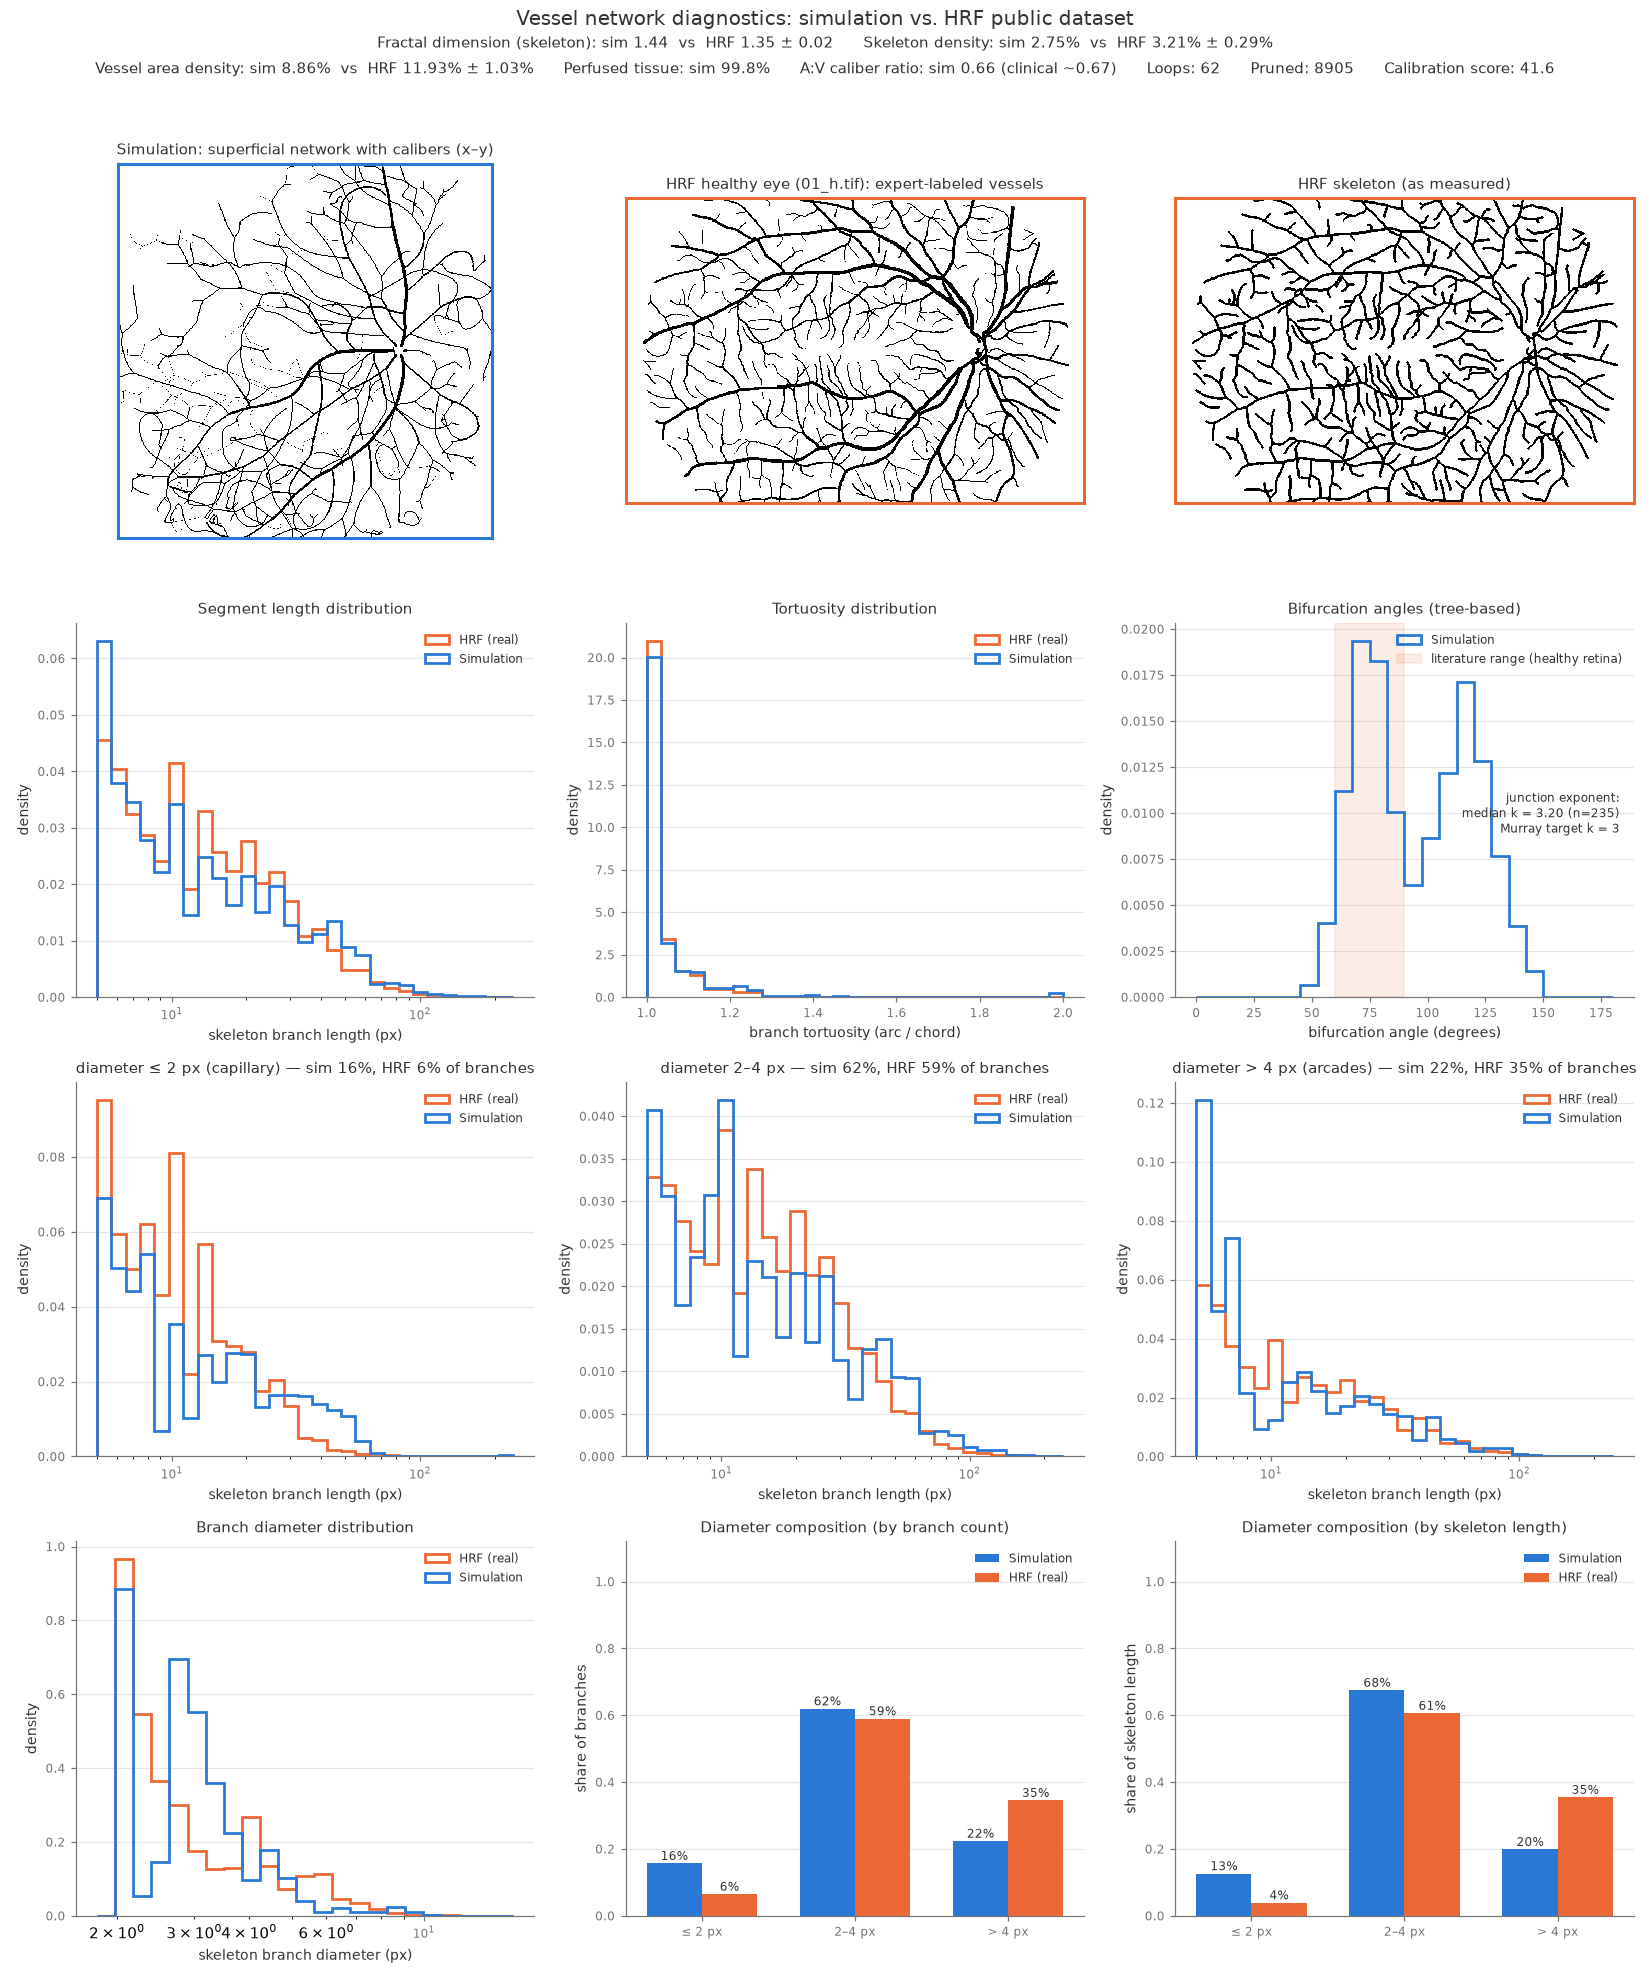
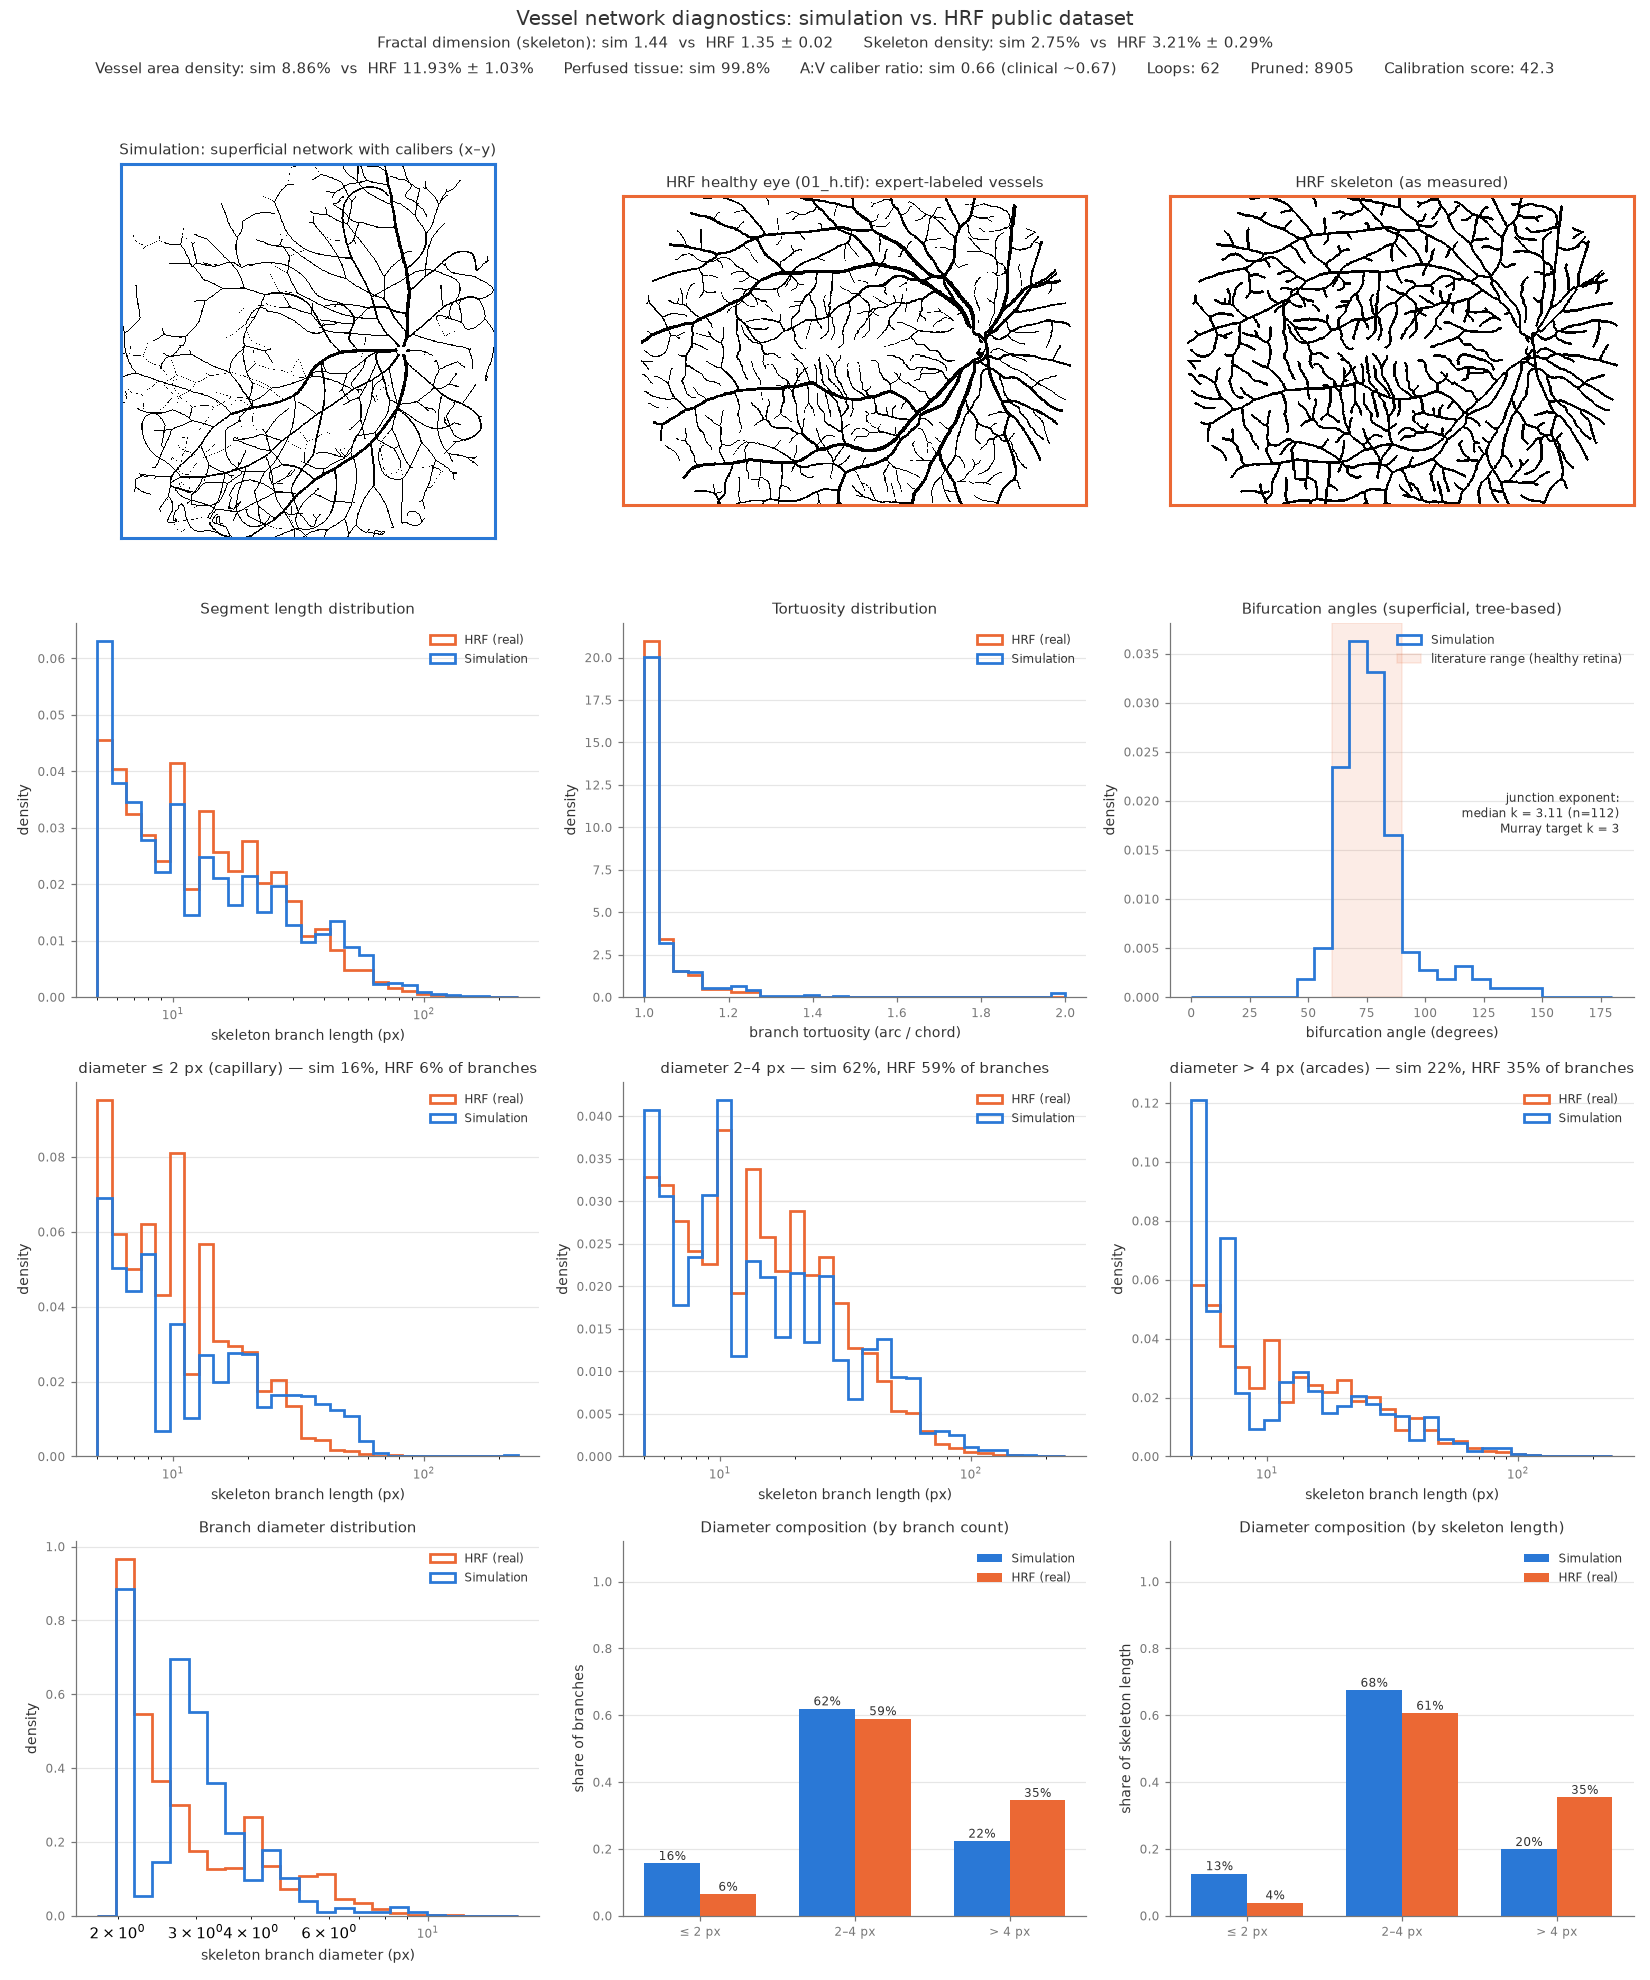
Measure fundus-visible bifurcation geometry and pin it with targets
The bifurcation-angle histogram was bimodal: a peak near 75 degrees
plus a second mode at 100-150 that healthy retinas do not show.
Decomposing every junction by provenance located the second mode
precisely: it is almost entirely deep-plexus capillary junctions
(layer-2 obtuse share 0.80 vs 0.08 superficial; capillary parents
median 116 degrees vs arcade/comb parents 76 with zero obtuse share).
Sibling tips pulled toward opposite hypoxic voids splay into the
T-shaped junctions real deep capillary meshes genuinely have -- but
fundus photographs cannot see them, so pooling them into the HRF-facing
histogram was the same measurement inconsistency as the old all-layer
raster.

The figure's angle panel and Murray-exponent inset now measure the
superficial tree only (metrics.json keeps the all-layer summary), and
two literature targets pin the geometry: bifurcation_angle_median
(77 +/- 5 degrees) and one-sided bifurcation_obtuse_share (>100
degrees, target 0.05). The spec sits at median 75-79 and obtuse
0.09-0.14 across the three calibration seeds; the histogram is now
unimodal on the Murray optimum.

A mechanism dial was built and honestly rejected:
perfusion_demand.caliber_reference/_exponent attenuates hypoxia
chemotaxis on wide tips (default off, unit-tested). The multi-seed
objective vetoed it decisively (3-seed mean 72.3 -> 2563 at exponent
1.0): the pull on wide tips is what drives the arcades outward, and
removing it stalls colonization. The knob remains as a candidate
[…]

diff --git a/src/vivarium_eye_vessels/vnv/compare.py b/src/vivarium_eye_vessels/vnv/compare.py
@@ -215,7 +215,13 @@ def run_comparison(model_spec: str, output_dir: Path, steps: int) -> dict:
         fundus_edges, bounds, radii=fundus_edges.radius.values if has_calibers else None
     )
     sim_image_metrics = metrics.image_metrics(sim_raster)
-    sim_angles = metrics.bifurcation_angles(pop)
+    # Angles and Murray exponents are compared against literature values for
+    # fundus-visible (arteriolar) junctions, so measure them on the
+    # superficial tree — the deep capillary plexuses form polygonal meshes
+    # whose T-shaped junctions would drown the arteriolar geometry
+    superficial_pop = pop[pop.layer_id == 0]
+    sim_angles = metrics.bifurcation_angles(superficial_pop)
+    sim_angles_all_layers = metrics.bifurcation_angles(pop)
     sim_tortuosity_paths = metrics.path_tortuosity(pop)
     sim_tree_segment_lengths = metrics.tree_segment_lengths(pop)
     sim_n_anastomoses = int((pop.anastomosis_id >= 0).sum())
@@ -232,7 +238,7 @@ def run_comparison(model_spec: str, output_dir: Path, steps: int) -> dict:
         if remodeler is not None
         else None
     )
-    sim_junction_exponents = metrics.junction_exponents(pop)
+    sim_junction_exponents = metrics.junction_exponents(superficial_pop)
     sim_perfused_fraction = metrics.perfused_fraction(
         pop, semi_axes, site_spacing=0.1, perfusion_radius=0.15
     )
@@ -309,6 +315,12 @@ def run_comparison(model_spec: str, output_dir: Path, steps: int) -> dict:
             else float("nan")
         ),
         "wide_junction_spacing_px": sim_image_metrics["wide_junction_spacing_px"],
+        "bifurcation_angle_median": (
+            float(np.median(sim_angles)) if len(sim_angles) else float("nan")
+        ),
+        "bifurcation_obtuse_share": (
+            float((sim_angles > 100).mean()) if len(sim_angles) else float("nan")
+        ),
         "artery_vein_caliber_ratio": sim_avr,
         "perfused_fraction": sim_perfused_fraction,
     }
@@ -413,7 +425,7 @@ def run_comparison(model_spec: str, output_dir: Path, steps: int) -> dict:
     ax.set_xlabel("bifurcation angle (degrees)", color=INK, fontsize=9)
     ax.set_ylabel("density", color=INK, fontsize=9)
     ax.legend(frameon=False, fontsize=8, labelcolor=INK)
-    ax.set_title("Bifurcation angles (tree-based)", color=INK, fontsize=10)
+    ax.set_title("Bifurcation angles (superficial, tree-based)", color=INK, fontsize=10)
     style_axis(ax)
     if len(sim_junction_exponents):
         ax.text(
@@ -565,6 +577,7 @@ def run_comparison(model_spec: str, output_dir: Path, steps: int) -> dict:
             "branch_tortuosity": metrics.summarize(sim_image_metrics["branch_tortuosity"]),
             "path_tortuosity": metrics.summarize(sim_tortuosity_paths),
             "bifurcation_angle_deg": metrics.summarize(sim_angles),
+            "bifurcation_angle_deg_all_layers": metrics.summarize(sim_angles_all_layers),
             "junction_exponent": metrics.summarize(sim_junction_exponents),
             "perfused_fraction": sim_perfused_fraction,
             "arterial_supply_fraction": sim_arterial_supply,

diff --git a/src/vivarium_eye_vessels/vnv/calibrate.py b/src/vivarium_eye_vessels/vnv/calibrate.py
@@ -60,6 +60,11 @@ TARGETS = {
     # ~23 px of wide (>4 px) skeleton (HRF across-mask mean 22.71, sd 1.77,
     # counting connected junction clusters once)
     "wide_junction_spacing_px": {"target": 22.71, "scale": 1.77},
+    # Fundus-visible (superficial-tree) bifurcation geometry: healthy
+    # arteriolar branch angles are unimodal around ~75-84 degrees; obtuse
+    # (>100 degree) junctions are rare. Judgment scales from the literature
+    "bifurcation_angle_median": {"target": 77.0, "scale": 5.0},
+    "bifurcation_obtuse_share": {"target": 0.05, "scale": 0.05, "one_sided": "above"},
     "artery_vein_caliber_ratio": {"target": 0.67, "scale": 0.05},
     "perfused_fraction": {"target": 0.98, "scale": 0.02, "one_sided": "below"},
 }
@@ -83,6 +88,7 @@ SEARCH_SPACE = {
     ("path_anastomosis", "capture_radius"): [0.035, 0.045, 0.055],
     ("frozen_repulsion", "spring_constant"): [1.25, 1.5, 1.75],
     ("perfusion_demand", "magnitude"): [0.25, 0.3, 0.35],
+    ("perfusion_demand", "caliber_exponent"): [0.0, 0.5, 1.0],
 }
 
 
@@ -131,6 +137,8 @@ def scoring_stats(pop, edges, bounds, semi_axes, real_lengths: np.ndarray) -> di
     tortuosity = np.asarray(image["branch_tortuosity"], dtype=float)
     diameter = np.asarray(image["branch_diameter_px"], dtype=float)
     wide_tortuosity = tortuosity[diameter > 4.0]
+    # Bifurcation geometry is judged on the superficial tree, like the raster
+    angles = metrics.bifurcation_angles(pop[pop.layer_id == 0])
     arteries = pop[(pop.vessel_type == 1) & (pop.depth == 0) & (pop.radius > 0)]
     veins = pop[(pop.vessel_type == 2) & (pop.depth == 0) & (pop.radius > 0)]
     return {
@@ -153,6 +161,12 @@ def scoring_stats(pop, edges, bounds, semi_axes, real_lengths: np.ndarray) -> di
             float(np.quantile(wide_tortuosity, 0.9)) if len(wide_tortuosity) else float("nan")
         ),
         "wide_junction_spacing_px": image["wide_junction_spacing_px"],
+        "bifurcation_angle_median": (
+            float(np.median(angles)) if len(angles) else float("nan")
+        ),
+        "bifurcation_obtuse_share": (
+            float((angles > 100).mean()) if len(angles) else float("nan")
+        ),
         "artery_vein_caliber_ratio": (
             float(arteries.radius.mean() / veins.radius.mean())
             if len(arteries) and len(veins)

diff --git a/src/vivarium_eye_vessels/components/boundaries.py b/src/vivarium_eye_vessels/components/boundaries.py
@@ -458,12 +458,18 @@ class PerfusionDemand(BaseForceComponent):
             "perfusion_radius": 0.15,
             "influence_radius": 2.0,
             "magnitude": 0.3,
+            # Hypoxia chemotaxis acts on capillary sprout tips, not trunks:
+            # tips wider than caliber_reference have the attraction attenuated
+            # by (reference / radius) ** caliber_exponent. Exponent 0 keeps
+            # the legacy caliber-blind attraction
+            "caliber_reference": 0.004,
+            "caliber_exponent": 0.0,
         }
     }
 
     @property
     def required_attributes(self) -> List[str]:
-        return ["x", "y", "z", "frozen", "path_id", "vessel_type"]
+        return ["x", "y", "z", "frozen", "path_id", "vessel_type", "radius"]
 
     @property
     def filter_str(self) -> str:
@@ -475,6 +481,8 @@ class PerfusionDemand(BaseForceComponent):
         self.perfusion_radius = float(config.perfusion_radius)
         self.influence_radius = float(config.influence_radius)
         self.magnitude = float(config.magnitude)
+        self.caliber_reference = float(config.caliber_reference)
+        self.caliber_exponent = float(config.caliber_exponent)
         self.freezer = builder.components.get_components_by_type(PathFreezer)[0]
 
         if "ellipsoid_containment" in builder.components.list_components():
@@ -511,4 +519,14 @@ class PerfusionDemand(BaseForceComponent):
             forces[selected] = colonization_forces(
                 tips[selected], hypoxic, self.influence_radius, self.magnitude
             )
+        # Chemotaxis is a capillary-sprout behavior: attenuate the pull on
+        # wide tips so trunks and side branches hold their heading
+        if self.caliber_exponent > 0:
+            radii = particles["radius"].to_numpy(dtype=float)
+            attenuation = np.where(
+                radii > self.caliber_reference,
+                (self.caliber_reference / np.maximum(radii, 1e-12)) ** self.caliber_exponent,
+                1.0,
+            )
+            forces = forces * attenuation[:, np.newaxis]
         return forces

diff --git a/tests/test_perfusion_demand.py b/tests/test_perfusion_demand.py
@@ -123,6 +123,49 @@ def run_simulation(with_perfusion: bool, steps: int = 250) -> float:
     return metrics.perfused_fraction(pop, SEMI_AXES, site_spacing=0.1, perfusion_radius=0.15)
 
 
+def test_caliber_attenuation_scales_the_pull():
+    """A wide tip feels (reference/radius)**exponent of the capillary pull."""
+    import pandas as pd
+
+    config = copy.deepcopy(CONFIGURATION)
+    config["perfusion_demand"]["caliber_exponent"] = 1.0
+    demand = PerfusionDemand()
+    sim = InteractiveContext(
+        components=[
+            Particle3D(),
+            PathFreezer(),
+            PathExtinction(),
+            PathSplitter(),
+            EllipsoidContainment(),
+            FrozenRepulsion(),
+            demand,
+        ],
+        configuration=config,
+    )
+    simulation.run_steps(sim, 10)
+
+    def pull(radius: float) -> float:
+        particles = pd.DataFrame(
+            {
+                "x": [0.5],
+                "y": [0.3],
+                "z": [0.0],
+                "frozen": [False],
+                "path_id": [1],
+                "vessel_type": [1],
+                "radius": [radius],
+            },
+            index=[0],
+        )
+        return float(np.linalg.norm(demand.calculate_forces_vectorized(particles)[0]))
+
+    capillary = pull(0.004)
+    assert capillary > 0
+    np.testing.assert_allclose(pull(0.016), capillary * 0.25, rtol=1e-9)
+    # At or below the reference caliber the pull is unattenuated
+    np.testing.assert_allclose(pull(0.002), capillary, rtol=1e-9)
+
+
 def test_perfusion_demand_improves_tissue_coverage():
     # Deterministic seeds make this an exact comparison, not a statistical one
     coverage_without = run_simulation(with_perfusion=False)

diff --git a/docs/realism_roadmap.md b/docs/realism_roadmap.md
@@ -421,6 +421,30 @@ seeds per evaluation (at proportional compute) or seed-averaged
 coordinate descent with a larger budget is the obvious continuation
 when compute allows.
 
+*Sixth pass (bifurcation angles)*: the tree-based angle histogram was
+bimodal — a peak near 75° plus a second mode at 100–150° that healthy
+retinas don't show. Decomposing every junction by provenance located the
+second mode precisely: it is almost entirely *deep-plexus capillary
+junctions* (layer-2 obtuse share 0.80 vs 0.08 superficial; capillary
+parents median 116° vs arcade/comb parents 76° with zero obtuse share) —
+sibling tips pulled toward opposite hypoxic voids splay into the
+T-shaped junctions that real deep capillary meshes genuinely have, but
+that fundus photographs cannot see. The fundus-visible geometry was
+already unimodal on the Murray optimum. So the fix is the same
+measurement principle as the superficial raster: the figure's angle
+panel and Murray-exponent inset now measure the superficial tree only
+(the all-layer summary stays in `metrics.json`), and two literature
+targets pin it — `bifurcation_angle_median` 77±5° and one-sided
+`bifurcation_obtuse_share` (>100°, target 0.05). The current spec sits
+at median 75–79° and obtuse 0.09–0.14 across the three calibration
+seeds. A mechanism dial was also built and honestly rejected:
+`perfusion_demand.caliber_exponent` attenuates hypoxia chemotaxis on
+wide tips (biologically plausible — VEGF acts on capillary sprouts),
+but the multi-seed objective vetoed it decisively (3-seed mean
+72.3 → 2563 at exponent 1.0): the pull on wide tips is what drives the
+arcades outward, and removing it stalls colonization. The knob remains
+(default off) as a candidate disease dial.
+
 ## Validation & verification (V&V)
 
 Idea 8 is where every other idea gets measured, so the repo carries a V&V

diff --git a/CHANGELOG.rst b/CHANGELOG.rst
@@ -1,3 +1,32 @@
+**v0.15.0 - 08/31/26**
+
+ - Unimodal bifurcation angles: measure fundus-visible junction geometry
+   and pin it with targets
+
+   - The bifurcation-angle histogram was bimodal (a peak near 75 degrees
+     plus a second mode at 100-150). Decomposing junctions by provenance
+     showed the second mode is almost entirely deep-plexus capillary
+     junctions (layer-2 share of obtuse angles: 0.80; superficial: 0.08)
+     -- polygonal-mesh T-junctions that fundus photographs cannot see,
+     and that real deep plexuses genuinely have. The visible (arcade and
+     comb) junctions were already unimodal at ~76 degrees with zero
+     obtuse share
+   - The comparison figure's angle panel and Murray-exponent inset now
+     measure the superficial tree only, consistent with the raster
+     (``metrics.json`` keeps the all-layer summary alongside)
+   - Two new literature targets on the superficial tree:
+     ``bifurcation_angle_median`` (77 +/- 5 degrees) and one-sided
+     ``bifurcation_obtuse_share`` (>100 degrees; target 0.05). The
+     current spec sits at median 75-79 and obtuse 0.09-0.14 across the
+     three calibration seeds
+   - New ``perfusion_demand.caliber_reference/_exponent`` knob
+     (default off, tested): attenuates hypoxia chemotaxis on wide tips.
+     Probed as a mechanism for the residual visible splay and REJECTED
+     by the multi-seed objective -- the pull on wide tips is what drives
+     the arcades outward, and attenuating it stalls colonization
+     (3-seed mean 72.3 -> 2563 at exponent 1.0). The knob stays for
+     disease-phenotype work
+
 **v0.14.0 - 08/31/26**
 
  - Multi-seed calibration objective, and a multi-seed refit
